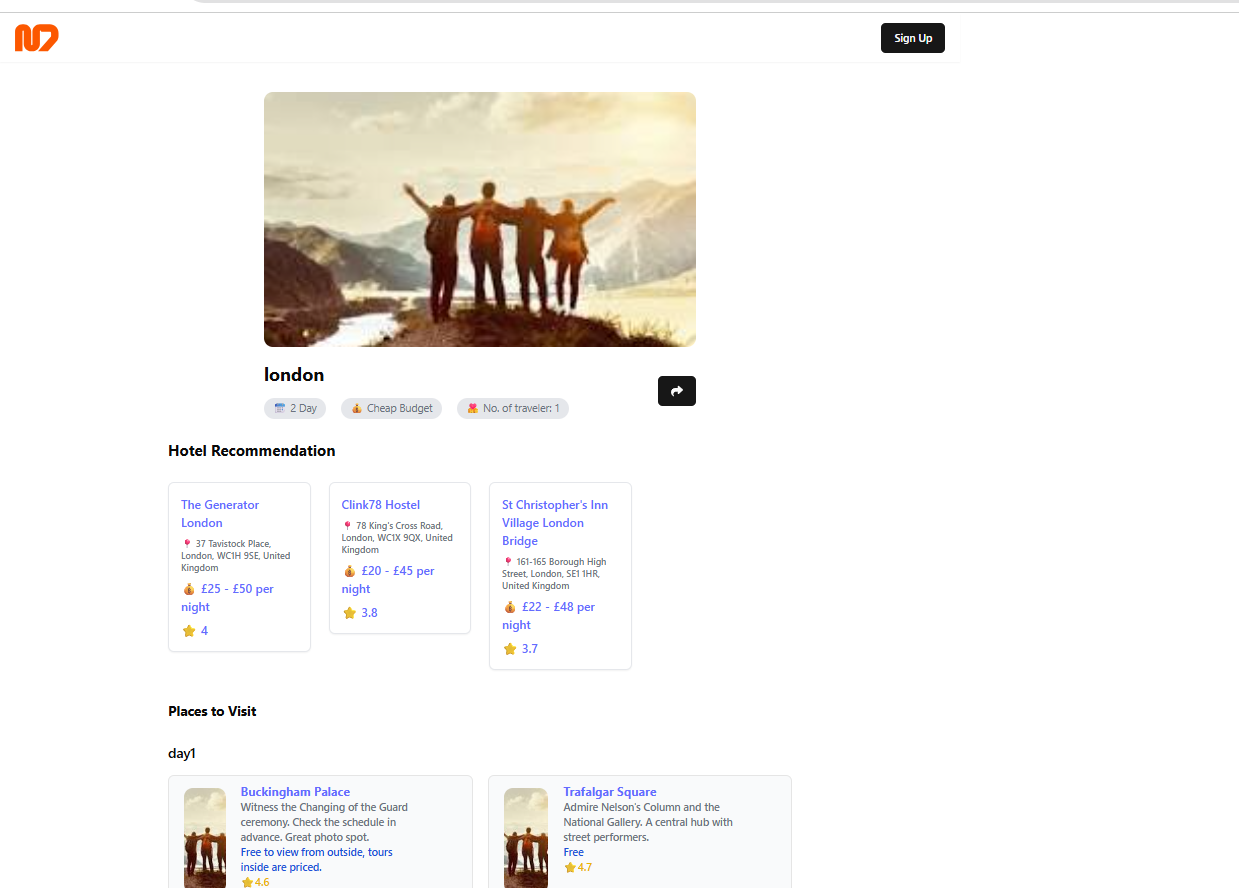
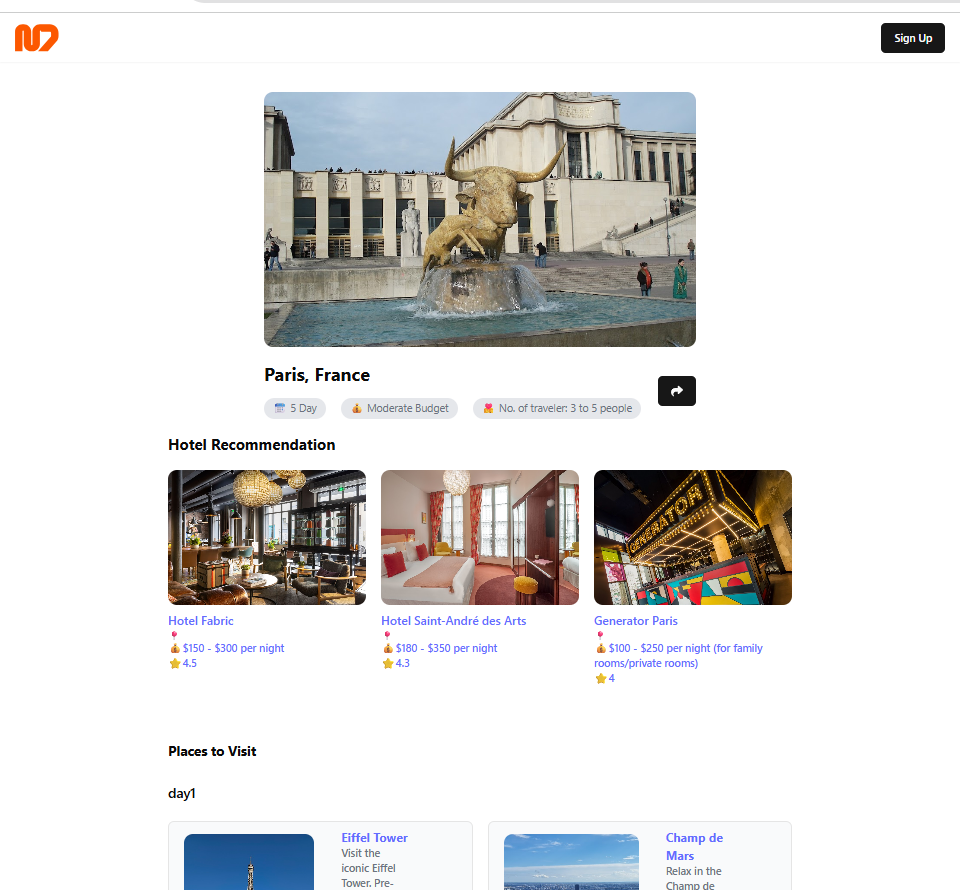
edited images in readMe

diff --git a/README.md b/README.md
@@ -140,4 +140,4 @@ App will be available at: [http://localhost:5173](http://localhost:5173)
 
 ## 🙋♀ Author
 
-Made with ❤ by [@Suhani2205](https://github.com/Suhani2205)
+Made by [@Suhani2205](https://github.com/Suhani2205)
